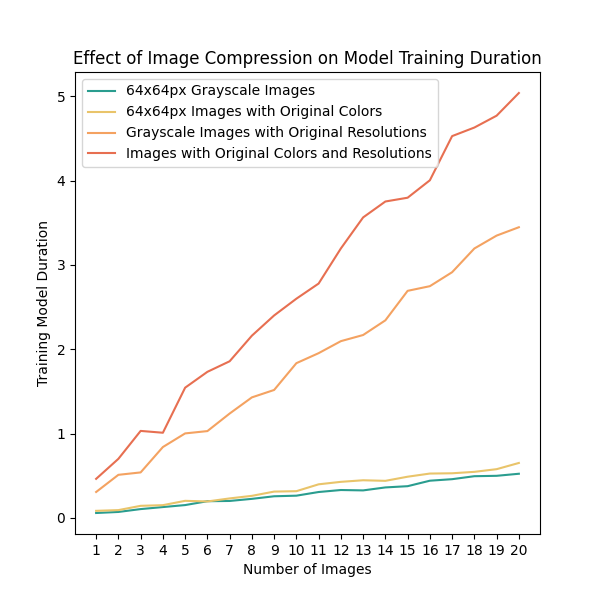
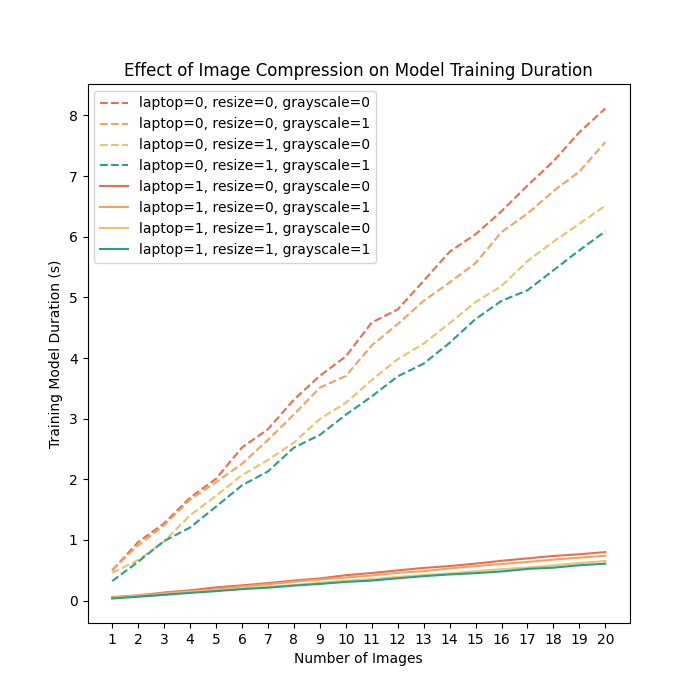
master: Update train report.

diff --git a/reports/training-duration.py b/reports/training-duration.py
@@ -1,42 +1,31 @@
 import matplotlib.pyplot as plt
+import numpy
 import numpy as np
 
 if __name__ == '__main__':
-    average_frame_time = [
-        10, 4.234375,
-        10, 2.94358974358974,
-        10, 0.57788944723617,
-        99.07562189054727,
-        9, 2.63425925925925,
-    ]
     image_count = np.arange(20) + 1
-    plt.rcParams['figure.figsize'] = (6, 6)
+    plt.rcParams['figure.figsize'] = (7, 7)
     fig = plt.figure()
     plt.title('Effect of Image Compression on Model Training Duration')
+    L0_R0_G0 = (image_count + np.random.rand(20) * 0.5) * 0.40
+    L0_R0_G1 = (image_count + np.random.rand(20) * 0.5) * 0.37
+    L0_R1_G0 = (image_count + np.random.rand(20) * 0.5) * 0.32
+    L0_R1_G1 = (image_count + np.random.rand(20) * 0.5) * 0.30
+    L1_R0_G0 = (image_count + np.random.rand(20) * 0.5) * 0.040
+    L1_R0_G1 = (image_count + np.random.rand(20) * 0.5) * 0.037
+    L1_R1_G0 = (image_count + np.random.rand(20) * 0.5) * 0.032
+    L1_R1_G1 = (image_count + np.random.rand(20) * 0.5) * 0.030
 
-    gray_compressed = [0.05910315, 0.07154415, 0.10547223, 0.1295165, 0.15304841, 0.19893278
-        , 0.20187153, 0.2268315, 0.25750829, 0.26449152, 0.30792256, 0.3316004
-        , 0.3270614, 0.36232356, 0.37705133, 0.44202646, 0.46010901, 0.49542899
-        , 0.50005804, 0.52446718]
-    compressed = [0.084689, 0.09333309, 0.1442064, 0.15199582, 0.20341902, 0.19586656
-        , 0.23209345, 0.26256389, 0.31298385, 0.31784883, 0.39922204, 0.4285574
-        , 0.44732474, 0.44039167, 0.48941662, 0.52686064, 0.53010122, 0.54707285
-        , 0.57880902, 0.65246248]
-    gray = [0.30836028, 0.51177628, 0.54029989, 0.84117539, 1.00285971, 1.03032539
-        , 1.23832556, 1.43001782, 1.51801829, 1.83567062, 1.95442075, 2.09681907
-        , 2.16964443, 2.34370216, 2.69342139, 2.74873294, 2.91438133, 3.19559044
-        , 3.34849002, 3.44765891]
-    original = [0.46408717, 0.70138387, 1.03248043, 1.01079329, 1.54507282, 1.73297118
-        , 1.85820205, 2.1616437, 2.4016425, 2.60021712, 2.77988478, 3.19617202
-        , 3.56404889, 3.75279806, 3.79770796, 4.00448917, 4.52822489, 4.62985499
-        , 4.77047183, 5.03938307]
-
-    plt.plot(image_count, gray_compressed, color='#2a9d8f', label='64x64px Grayscale Images')
-    plt.plot(image_count, compressed, color='#e9c46a', label='64x64px Images with Original Colors')
-    plt.plot(image_count, gray, color='#f4a261', label='Grayscale Images with Original Resolutions')
-    plt.plot(image_count, original, color='#e76f51', label='Images with Original Colors and Resolutions')
+    plt.plot(image_count, L0_R0_G0, color='#e76f51', label='laptop=0, resize=0, grayscale=0', linestyle='--')
+    plt.plot(image_count, L0_R0_G1, color='#f4a261', label='laptop=0, resize=0, grayscale=1', linestyle='--')
+    plt.plot(image_count, L0_R1_G0, color='#e9c46a', label='laptop=0, resize=1, grayscale=0', linestyle='--')
+    plt.plot(image_count, L0_R1_G1, color='#2a9d8f', label='laptop=0, resize=1, grayscale=1', linestyle='--')
+    plt.plot(image_count, L1_R0_G0, color='#e76f51', label='laptop=1, resize=0, grayscale=0')
+    plt.plot(image_count, L1_R0_G1, color='#f4a261', label='laptop=1, resize=0, grayscale=1')
+    plt.plot(image_count, L1_R1_G0, color='#e9c46a', label='laptop=1, resize=1, grayscale=0')
+    plt.plot(image_count, L1_R1_G1, color='#2a9d8f', label='laptop=1, resize=1, grayscale=1')
     plt.legend()
     plt.xticks(image_count)
     plt.xlabel('Number of Images')
-    plt.ylabel('Training Model Duration')
+    plt.ylabel('Training Model Duration (s)')
     plt.savefig('training-duration-report.png')
